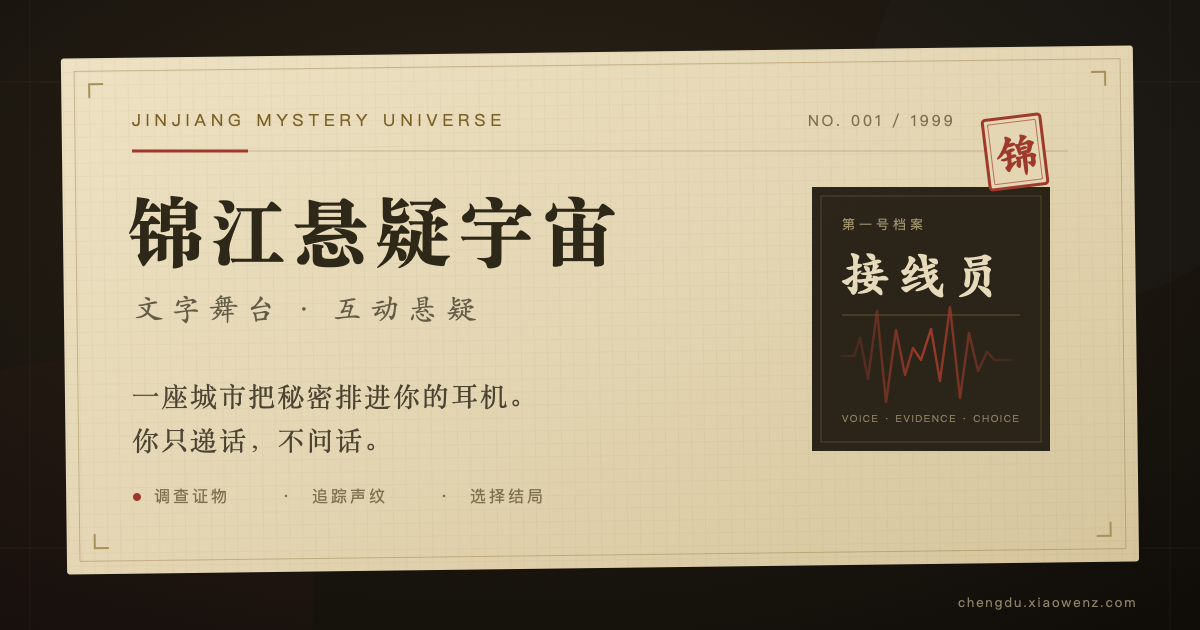
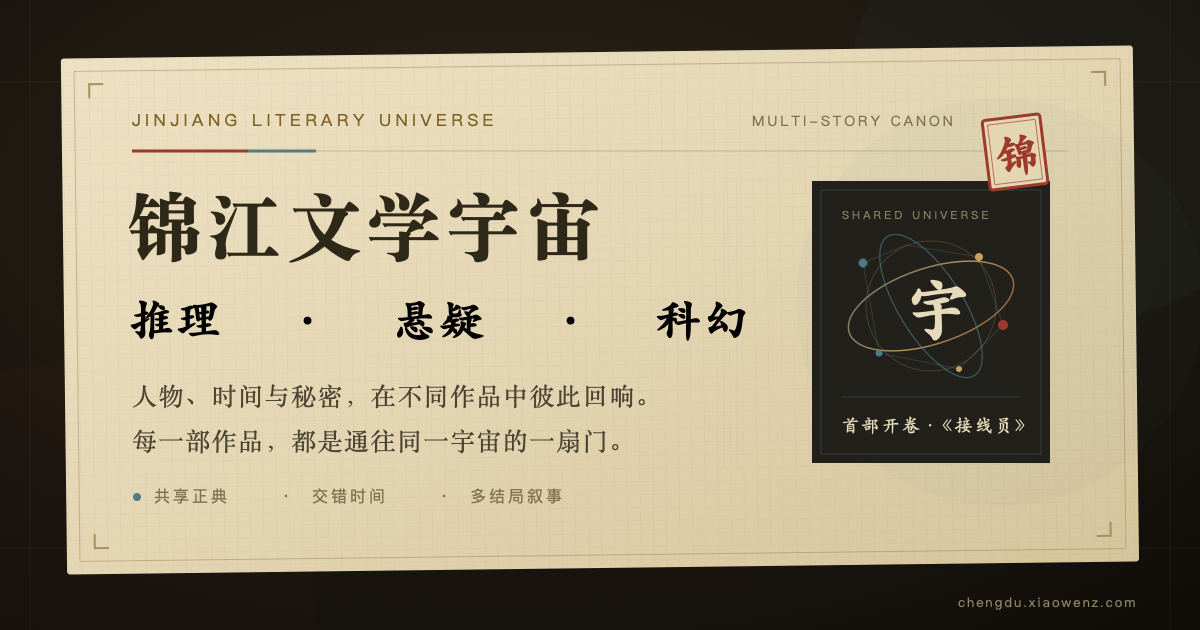
feat: OG 分享卡突出文学宇宙与三类题材 (#88) (#89) (#90)

diff --git a/web/index.html b/web/index.html
@@ -11,17 +11,17 @@
 <meta property="og:site_name" content="锦江悬疑宇宙">
 <meta property="og:url" content="https://chengdu.xiaowenz.com/">
 <meta property="og:title" content="锦江悬疑宇宙 · 文字舞台">
-<meta property="og:description" content="一座城市把秘密排进你的耳机。翻开第一号档案《接线员》，调查证物、追踪声纹、选择结局。">
+<meta property="og:description" content="推理、悬疑、科幻的文学宇宙。人物、时间与秘密，在不同作品中彼此回响；首部开卷《接线员》。">
 <meta property="og:image" content="https://chengdu.xiaowenz.com/og-card.png">
 <meta property="og:image:type" content="image/png">
 <meta property="og:image:width" content="1200">
 <meta property="og:image:height" content="630">
-<meta property="og:image:alt" content="深夜档案室里，一册摊开的牛皮纸卷宗写着锦江悬疑宇宙；朱砂印章与声纹波标记第一号档案《接线员》。">
+<meta property="og:image:alt" content="牛皮纸卷宗上写着锦江文学宇宙与推理、悬疑、科幻；右侧是由冷色轨道和星点组成的宇宙星图。">
 <meta name="twitter:card" content="summary_large_image">
 <meta name="twitter:title" content="锦江悬疑宇宙 · 文字舞台">
-<meta name="twitter:description" content="翻开第一号档案《接线员》：一座城市把秘密排进你的耳机。">
+<meta name="twitter:description" content="推理、悬疑、科幻的文学宇宙；每一部作品，都是通往同一宇宙的一扇门。">
 <meta name="twitter:image" content="https://chengdu.xiaowenz.com/og-card.png">
-<meta name="twitter:image:alt" content="锦江悬疑宇宙的牛皮纸案卷、朱砂印章与《接线员》声纹卡。">
+<meta name="twitter:image:alt" content="锦江文学宇宙分享卡：推理、悬疑、科幻，配有朱砂印章与冷色宇宙星图。">
 <link rel="manifest" href="/manifest.webmanifest">
 <meta name="theme-color" content="#17130d">
 <meta name="mobile-web-app-capable" content="yes">
